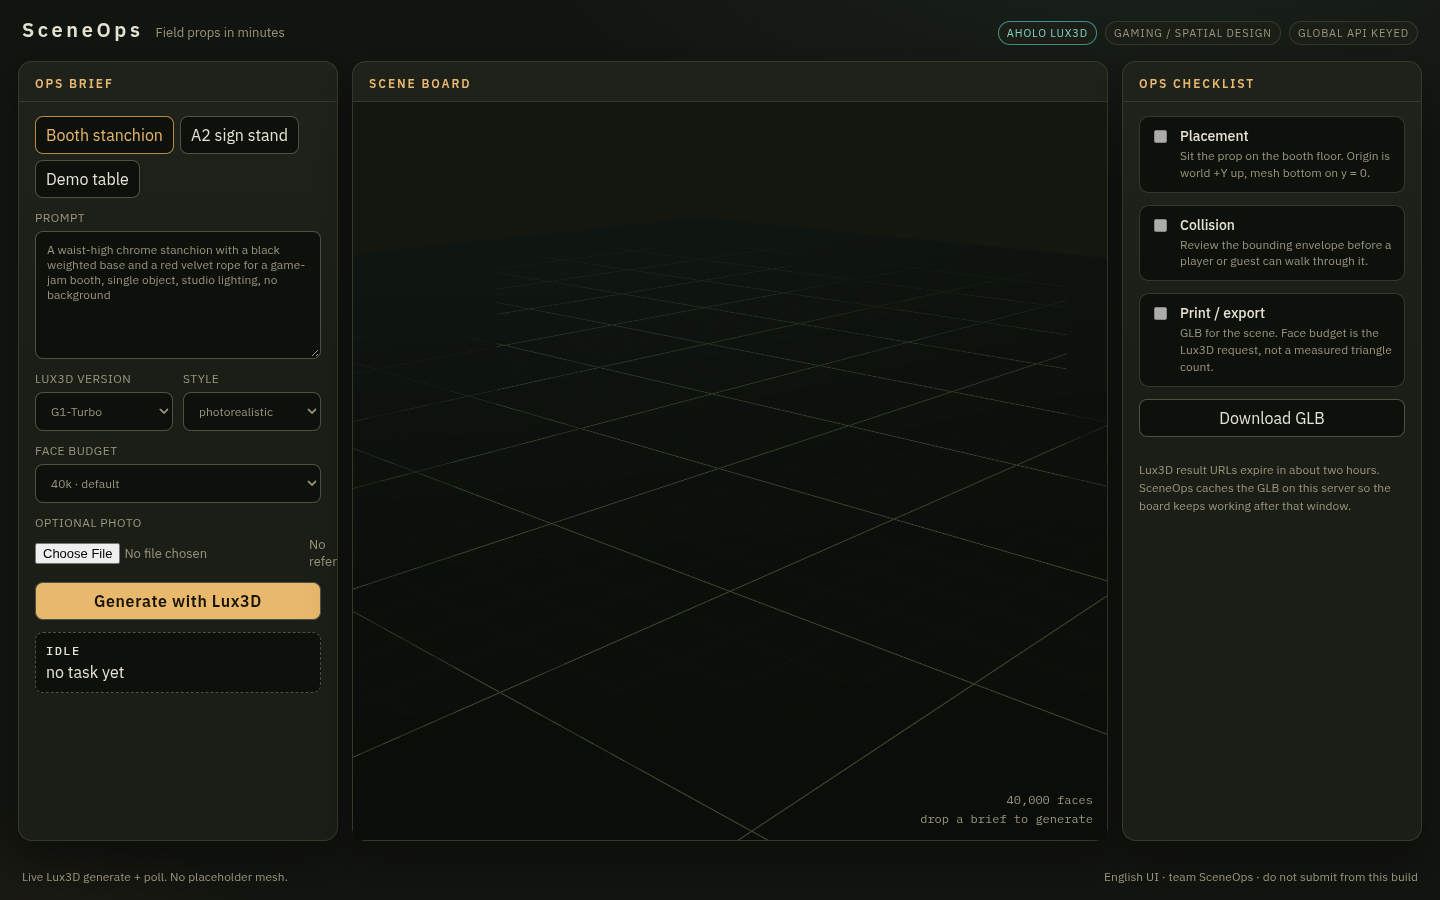
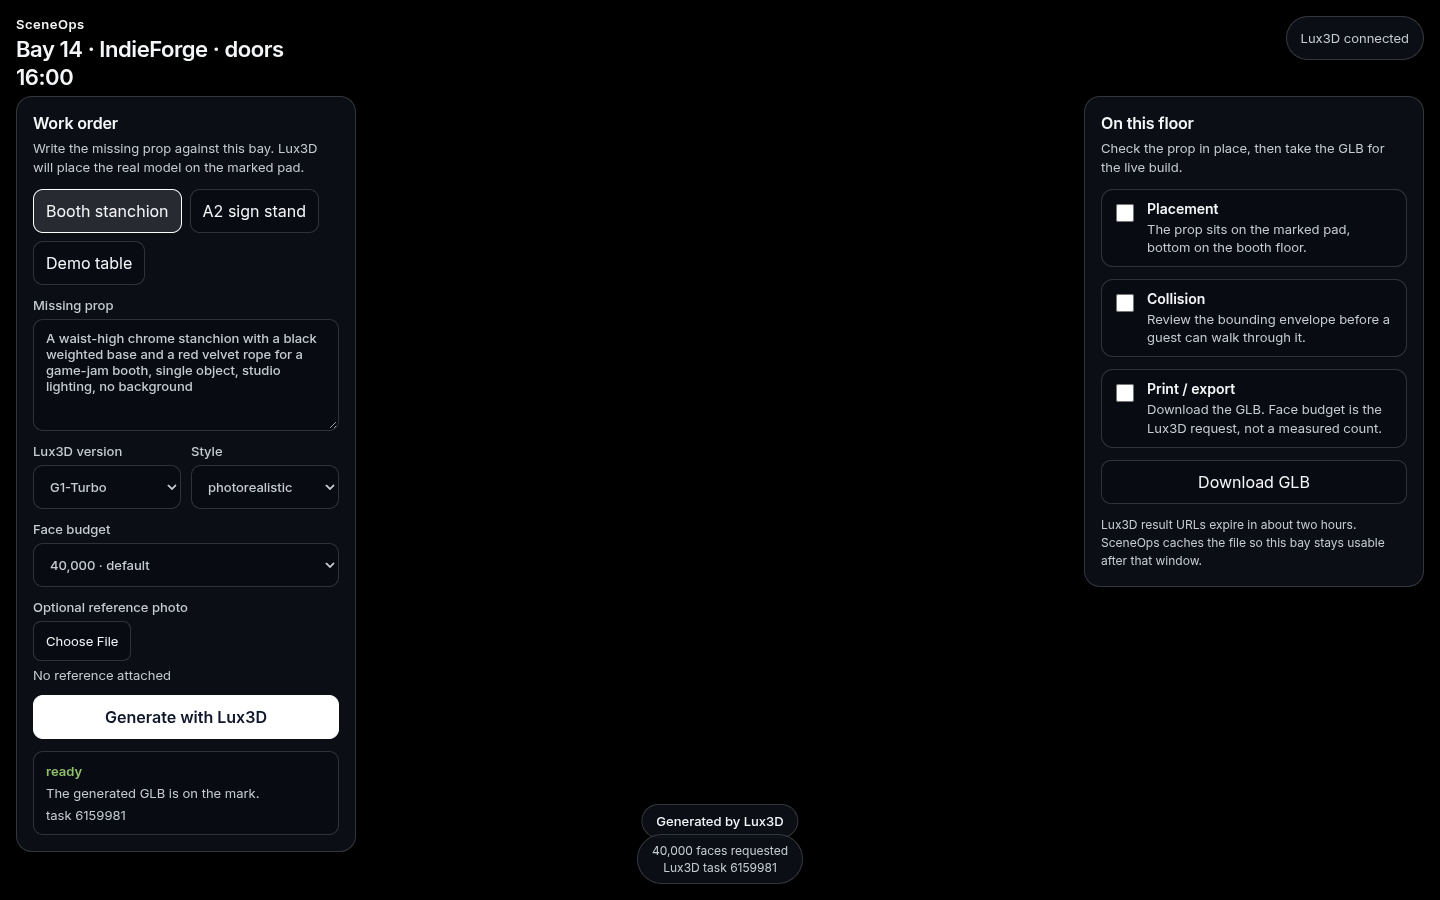
docs: record booth-floor rewrite, voiced explainer, and verify shots
STATUS and proof after the Bay 14 presentation pass. Official Submit still waits for the user.

diff --git a/STATUS.md b/STATUS.md
@@ -1,6 +1,6 @@
 # SceneOps — status
 
-**Updated:** 2026-11-11 · Build **DONE** against **real Aholo Lux3D**. **No portal Submit.** **No tweet.** **No card.** **Fee $0 / ¥0.**
+**Updated:** 2026-11-11 · Presentation rewrite on a real booth floor. Build still uses **real Aholo Lux3D**. **No portal Submit.** **No tweet.** **Fee $0 / ¥0.**
 
 Team **SceneOps**. Award tracks: Gaming / Spatial Design. English UI only.
 
@@ -16,48 +16,42 @@ Team **SceneOps**. Award tracks: Gaming / Spatial Design. English UI only.
 | Contest hub | https://www.aholo.ai/hackathon/my |
 | Submit | **Not done** (do not submit until user 「交」) |
 
+## What changed in this pass
+
+The product now opens on Bay 14 (IndieForge game-jam booth, doors 16:00). The missing chrome stanchion is marked on the floor. The work order is written against that bay. When Lux3D returns a real GLB, the model lands on the marked pad. Placement, collision, and print/export stay in that scene.
+
+Commit: `d1e10331b1a9168bda96190530f14b6d005745a1` on `origin/main`.
+
 ## Lux3D proof (not a mock)
 
-Verification CLI:
-
-```
-node .cursor/skills/verify-sceneops/scripts/verify.mjs happy-path
-PASS happy-path task=6159981 bytes=9273184 magic=glTF
-```
-
-| Field | Value |
-| --- | --- |
-| Task id | `6159981` |
-| Status | `3` (Lux3D success) |
-| Bytes | `9,273,184` |
-| Magic | `glTF` (`676c5446`) |
-| Version | G1-Turbo · photorealistic · 40k face request |
-| Host | `qhsmodel.kujiale.com` |
-| Artifacts | `artifacts/verify/2026-11-10T18-16-40-518Z/` |
-| Screenshots | `docs/proof/01-brief.png` · `02-polling.png` · `03-scene-board.png` · `04-board-crop.png` · `05-checklist.png` |
+Cached proven mesh remains task `6159981` (9,273,184 bytes, magic `glTF`, G1-Turbo, photorealistic, 40k face request). Open `/?scene=open` to see the empty mark. Default load uses the latest cached ready job when the server has one.
 
 Public `GET https://sceneops.vercel.app/api/health` returns `{"ok":true,"hasKey":true,"region":"com","service":"sceneops"}`. The key is not in the response or in git.
+
+Screenshots: `docs/proof/06-first-screen-open.png` (empty marked bay) · `07-model-landed.png` (task 6159981 on the pad) · `08-mobile-open.png`.
 
 ## Explainer
 
 | Item | Value |
 | --- | --- |
 | Deep link | https://review-clips.vercel.app/v/sceneops-explainer |
-| Duration | 180.0s · 1920×1080 · ~22 MB |
+| HTTP | 200 (page and mp4) |
+| Duration | 180.0s · 1920×1080 · audio AAC 48 kHz stereo |
 | Project | `/workspace/competitions/explainers/sceneops/` |
 | Composition | `SceneOpsExplainer` |
-| Motion | Continuous ops-board (not onetake, not PNG concat, not PopCard) |
-| Language | English burn-in |
+| Motion | Continuous recording of the real staged booth UI (not stills, not `board-ready.png`, not ffmpeg-concat of slides) |
+| Language | English voice-over (AndrewNeural) + English burned-in captions |
 
 ## Skills used
 
-poteto-mode, create-verification-skill, skill-design-principles, principle-prove-it-works, principle-build-the-lever, principle-model-the-domain, principle-experience-first, principle-sequence-verifiable-units, principle-never-block-on-the-human, principle-laziness-protocol, principle-boundary-discipline, principle-foundational-thinking, unslop, threejs-frame-conventions, remotion, remotion-best-practices, remotion-markup, remotion-create, remotion-render, hackathon-concept-forge, agent-browser, long-running-background-tasks.
+hackathon-storytelling (narrative + presentation + review), UI UX Pro Max (design system + UX/stack queries, actually run), remotion, remotion-best-practices, remotion-markup, remotion-captions, remotion-multimedia, remotion-render. Idea gate already passed. poteto-mode and Grok Build were not used for this pass. Onetake hook was skipped after the explainer was solid.
 
 ## Honesty
 
 - Generate / poll / GLB bytes come from the Aholo Lux3D Global API.
 - Face budget in the UI is the request sent to Lux3D, not a measured triangle count.
 - Result URLs expire in about two hours; the local server caches the GLB. Vercel redirects the mesh to the live Lux3D URL (CORS `*`).
+- The explainer shows the real cached result of task 6159981 landing on the mark; it does not invent a generate that did not run in the recording.
 - Aholo portal Submit was not done.
 
 ## Local how-to

diff --git a/BUILD-STATUS.md b/BUILD-STATUS.md
@@ -1,16 +1,16 @@
 # SceneOps — Aholo Global 3D AI Hackathon · BUILD-STATUS
 
-**Updated:** 2026-11-11 · Build **DONE** (real Lux3D) · **NO Submit**
+**Updated:** 2026-11-11 · Presentation rewrite on the booth floor (real Lux3D) · **NO Submit**
 
-**Skills loaded:** poteto-mode, create-verification-skill, remotion + remotion-best-practices + remotion-markup + remotion-create + remotion-render, threejs-frame-conventions, hackathon-concept-forge
+**Skills loaded:** hackathon-storytelling, UI UX Pro Max, remotion + remotion-best-practices + remotion-markup + remotion-captions + remotion-multimedia + remotion-render
 
 | Field | Status |
 | --- | --- |
 | Soft | **DONE** — team **SceneOps** · https://www.aholo.ai/hackathon/my |
-| Build | **DONE** — Lux3D generate+poll+GLB on scene board |
+| Build | **DONE** — first screen is Bay 14 with a marked missing prop; Lux3D GLB lands on the pad |
 | Demo | https://sceneops.vercel.app |
-| GitHub | https://github.com/er-s-an/sceneops |
-| Review clip | https://review-clips.vercel.app/v/sceneops-explainer |
+| GitHub | https://github.com/er-s-an/sceneops · commit `d1e1033` |
+| Review clip | https://review-clips.vercel.app/v/sceneops-explainer (EN VO + captions, ~180s, HTTP 200) |
 | Proof task | Lux3D `6159981` · 9,273,184 bytes · `glTF` |
 | Fee | **$0 / ¥0** |
 | Submit DDL | ~**2026-11-19 19:00 Beijing** |
